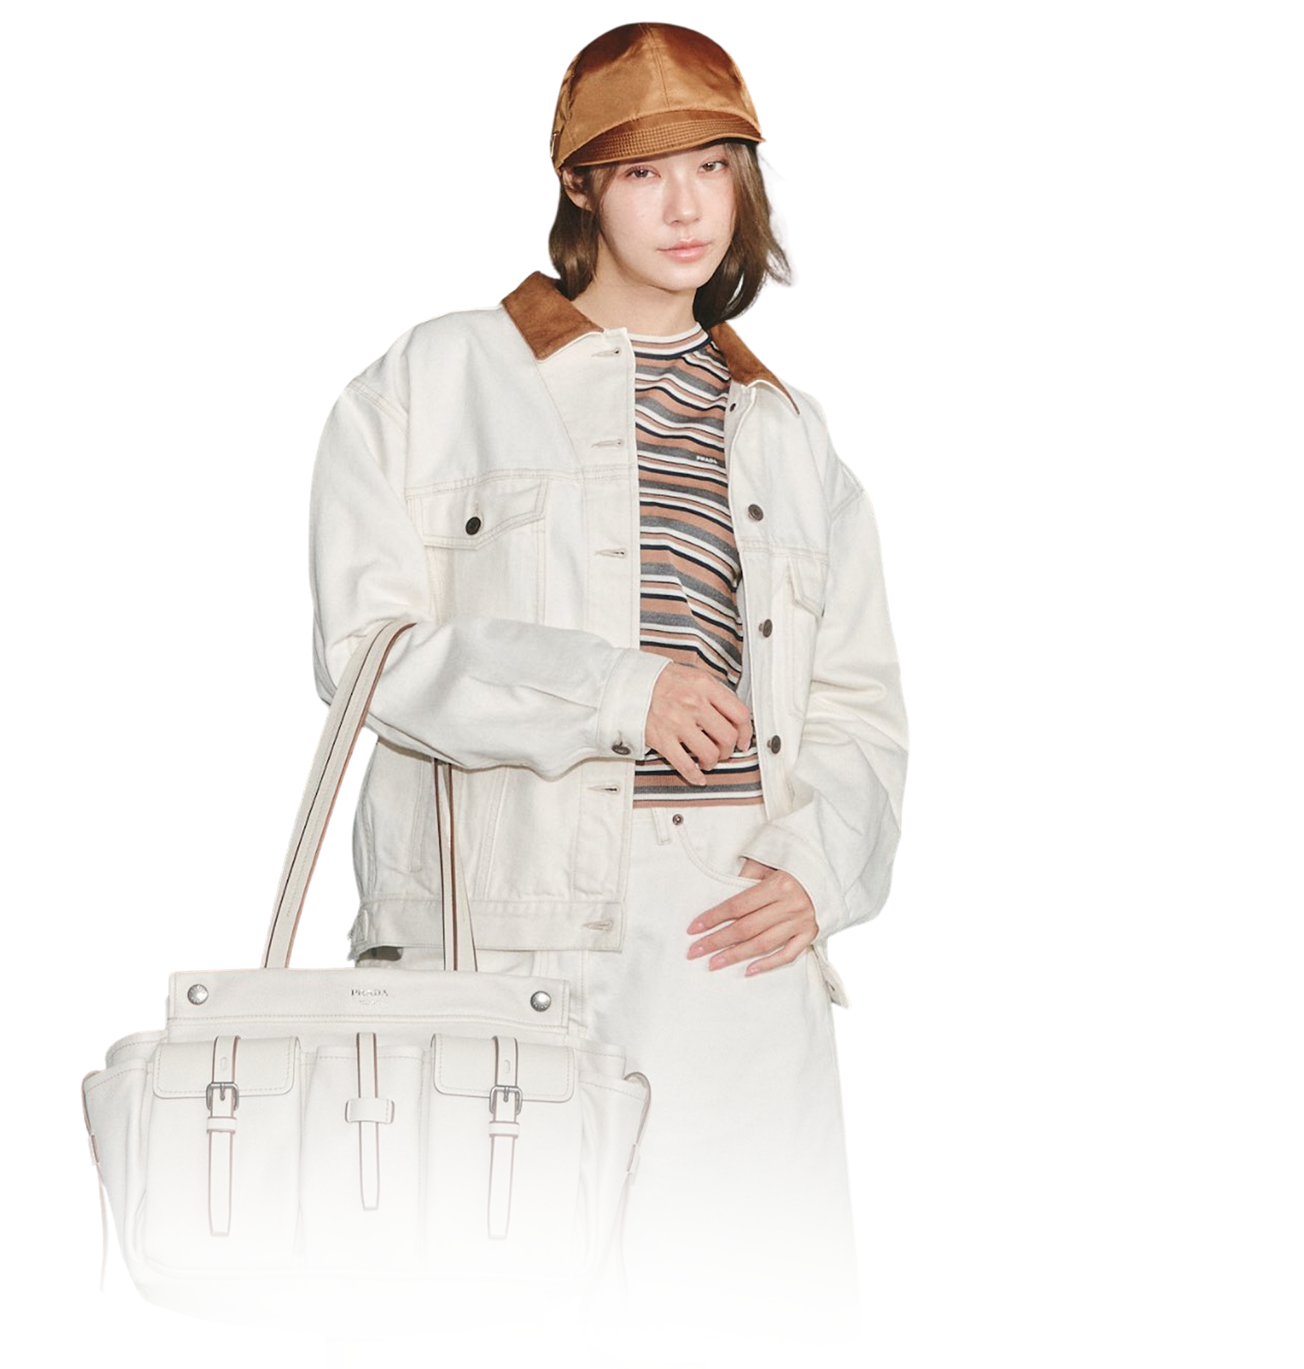
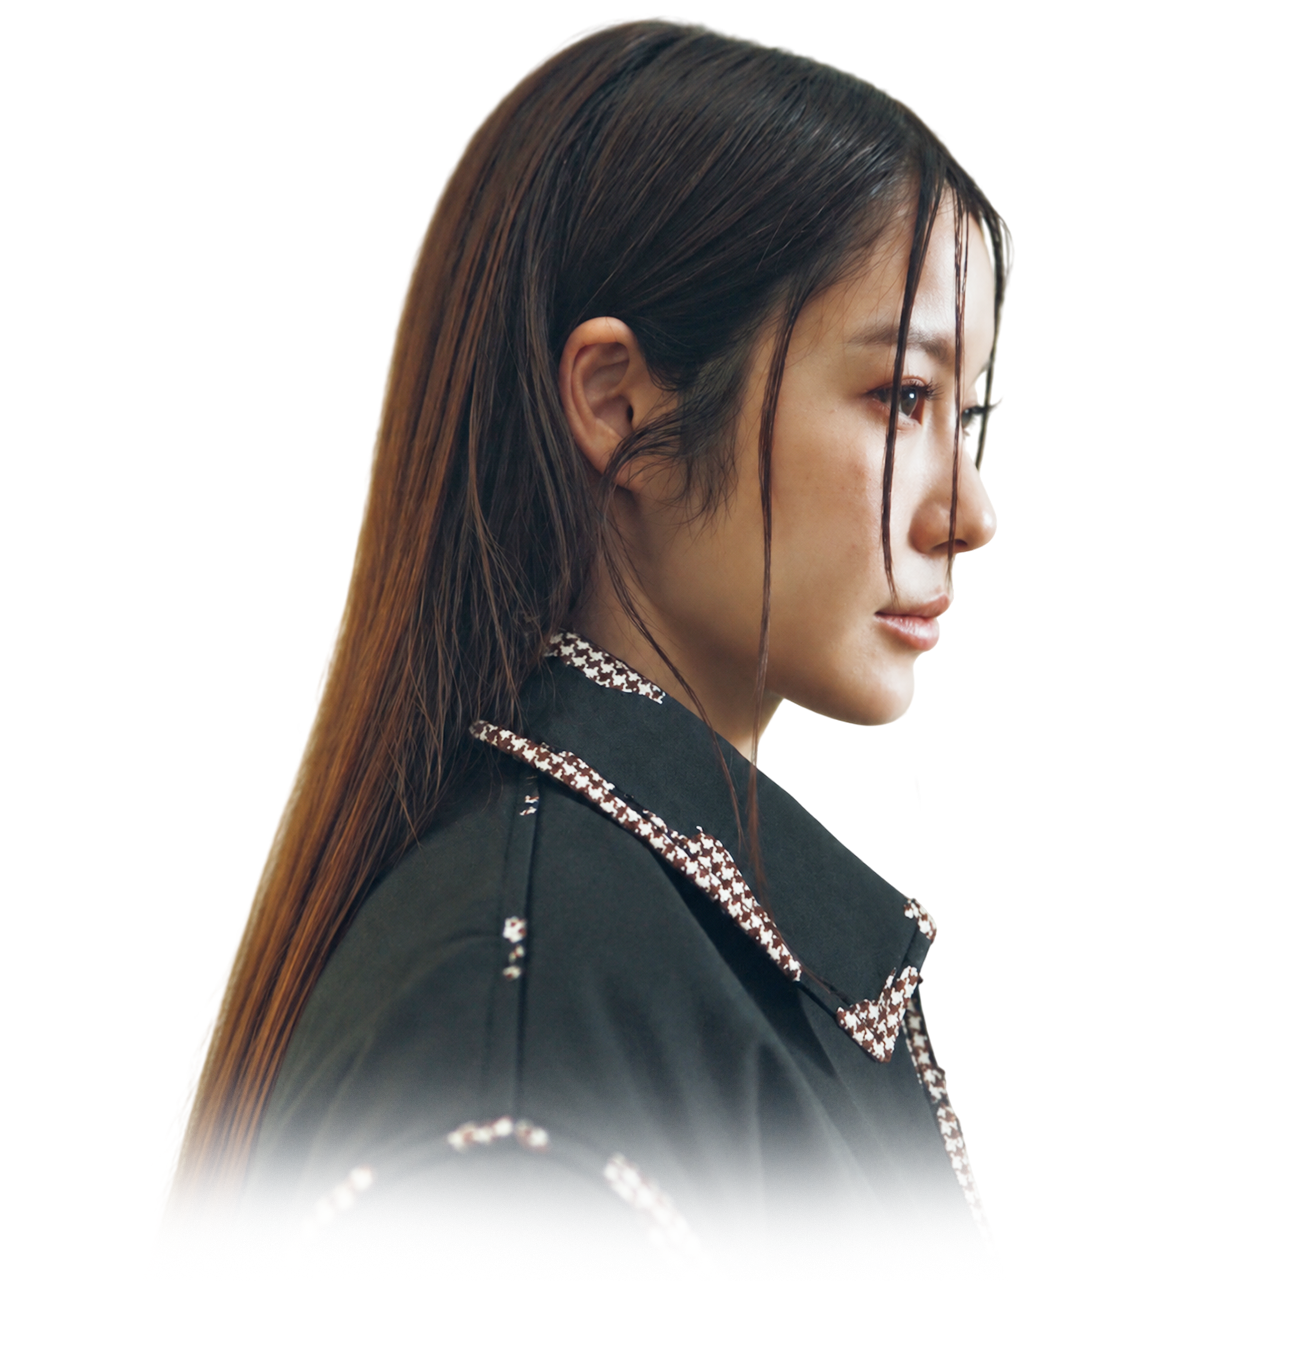
style: update color palette (#e6e7e9 background, #121c21 text, #47191e red buttons, #102022 green bars/buttons)

diff --git a/src/App.tsx b/src/App.tsx
@@ -1125,12 +1125,12 @@ function App() {
           {/* Hero Editorial Banner Layout (Top Banner - Normal Scroll) */}
           <div className="relative w-full overflow-hidden bg-transparent mb-1 p-4 sm:p-6 flex flex-col items-center justify-center min-h-[200px] sm:min-h-[240px]">
             {/* Language Switcher (Top Right Absolute) */}
-            <div className="absolute top-2 right-2 z-20 flex rounded-full overflow-hidden border border-[#c4d2b1] bg-white/60 backdrop-blur-md shadow-sm">
+            <div className="absolute top-2 right-2 z-20 flex rounded-full overflow-hidden border border-[#102022] bg-white/60 backdrop-blur-md shadow-sm">
               <button
                 onClick={() => setLanguage('th')}
                 className={`px-2.5 py-1 text-[10px] font-bold transition-all ${language === 'th'
-                  ? 'bg-[#c4d2b1] text-[#2a2121]'
-                  : 'text-[#2a2121]/70 hover:text-[#2a2121]'
+                  ? 'bg-[#102022] text-white'
+                  : 'text-[#121c21]/70 hover:text-[#121c21]'
                   }`}
               >
                 TH
@@ -1138,8 +1138,8 @@ function App() {
               <button
                 onClick={() => setLanguage('en')}
                 className={`px-2.5 py-1 text-[10px] font-bold transition-all ${language === 'en'
-                  ? 'bg-[#c4d2b1] text-[#2a2121]'
-                  : 'text-[#2a2121]/70 hover:text-[#2a2121]'
+                  ? 'bg-[#102022] text-white'
+                  : 'text-[#121c21]/70 hover:text-[#121c21]'
                   }`}
               >
                 EN
@@ -1158,14 +1158,14 @@ function App() {
             {/* Typography Title & Subtitle - Archivo Black Uniform Style */}
             <div className="relative z-10 text-center flex flex-col items-center">
               <h1 className="flex items-center justify-center gap-2 sm:gap-3 flex-wrap drop-shadow-sm font-archivo text-2xl sm:text-4xl leading-none uppercase tracking-tight">
-                <span className="text-[#2f2625]">
+                <span className="text-[#121c21]">
                   PRADA ×
                 </span>
-                <span className="text-[#c4d2b1]">
+                <span className="text-[#47191e]">
                   namtan
                 </span>
               </h1>
-              <p className="text-[11px] sm:text-[14px] font-light tracking-wider text-[#2f2625] mt-2 font-google">
+              <p className="text-[11px] sm:text-[14px] font-light tracking-wider text-[#121c21] mt-2 font-google">
                 Womenswear Spring/Summer 2027
               </p>
               {/* Brand Logo */}
@@ -1198,13 +1198,13 @@ function App() {
                         setVisibleCount(30);
                       }}
                       className={`flex flex-col items-center justify-center py-2 px-0.5 rounded-xl border transition-all ${isActive
-                        ? 'bg-[#c4d2b1] text-[#2a2121] border-[#c4d2b1] shadow-md scale-105 z-10 font-bold'
-                        : 'bg-white/80 text-[#2a2121] border-[#c4d2b1]/60 hover:bg-[#c4d2b1]/20'
+                        ? 'bg-[#102022] text-white border-[#102022] shadow-md scale-105 z-10 font-bold'
+                        : 'bg-white/80 text-[#121c21] border-[#102022]/40 hover:bg-[#102022]/10'
                         }`}
                     >
                       <div className="text-[12px] sm:text-[14px] leading-none mb-1">{phase.icon}</div>
                       <div className="text-[9px] sm:text-[10px] font-bold leading-none mb-0.5 whitespace-nowrap">{phase.label}</div>
-                      <div className={`text-[7px] sm:text-[8px] tracking-tight whitespace-nowrap overflow-hidden text-ellipsis w-full px-0.5 text-center ${isActive ? 'text-[#2a2121]/90 font-semibold' : 'text-[#2a2121]/70'}`}>{phase.desc}</div>
+                      <div className={`text-[7px] sm:text-[8px] tracking-tight whitespace-nowrap overflow-hidden text-ellipsis w-full px-0.5 text-center ${isActive ? 'text-white/90 font-semibold' : 'text-[#121c21]/70'}`}>{phase.desc}</div>
                     </button>
                   )
                 })}
@@ -1225,8 +1225,8 @@ function App() {
                       }
                     }}
                     className={`px-3 sm:px-4 h-8 rounded-full flex items-center gap-1.5 shadow-lg shadow-black/5 transition-all hover:scale-105 active:scale-95 group relative z-50 flex-shrink-0 border ${activeSection === 'tasks'
-                      ? 'bg-[#c4d2b1] text-[#2a2121] border-transparent shadow-[#c4d2b1]/20'
-                      : 'bg-white/90 backdrop-blur-md text-[#2a2121] border-[#c4d2b1] shadow-sm hover:bg-white shadow-[#c4d2b1]/10'
+                      ? 'bg-[#47191e] text-white border-transparent shadow-[#47191e]/20'
+                      : 'bg-white/90 backdrop-blur-md text-[#121c21] border-[#102022]/40 shadow-sm hover:bg-white'
                       }`}
                   >
                     <span className={`text-[10px] ${activeSection === 'tasks' ? 'animate-pulse' : ''} transition-transform`}>
@@ -1243,8 +1243,8 @@ function App() {
                       }
                     }}
                     className={`px-3 sm:px-4 h-8 rounded-full flex items-center gap-1.5 shadow-lg shadow-black/5 transition-all hover:scale-105 active:scale-95 group relative z-50 flex-shrink-0 border ${activeSection === 'boost'
-                      ? 'bg-[#c4d2b1] text-[#2a2121] border-transparent shadow-[#c4d2b1]/20'
-                      : 'bg-white/90 backdrop-blur-md text-[#2a2121] border-[#c4d2b1] shadow-sm hover:bg-white shadow-[#c4d2b1]/10'
+                      ? 'bg-[#47191e] text-white border-transparent shadow-[#47191e]/20'
+                      : 'bg-white/90 backdrop-blur-md text-[#121c21] border-[#102022]/40 shadow-sm hover:bg-white'
                       }`}
                   >
                     <span className={`text-[10px] ${activeSection === 'boost' ? 'animate-pulse' : ''} transition-transform`}>
@@ -1261,8 +1261,8 @@ function App() {
                       }
                     }}
                     className={`px-3 sm:px-4 h-8 rounded-full flex items-center gap-1.5 shadow-lg shadow-black/5 transition-all hover:scale-105 active:scale-95 group relative z-50 flex-shrink-0 border ${activeSection === 'important'
-                      ? 'bg-[#c4d2b1] text-[#2a2121] border-transparent shadow-[#c4d2b1]/20'
-                      : 'bg-white/90 backdrop-blur-md text-[#2a2121] border-[#c4d2b1] shadow-sm hover:bg-white shadow-[#c4d2b1]/10'
+                      ? 'bg-[#47191e] text-white border-transparent shadow-[#47191e]/20'
+                      : 'bg-white/90 backdrop-blur-md text-[#121c21] border-[#102022]/40 shadow-sm hover:bg-white'
                       }`}
                   >
                     <span className={`text-[10px] ${activeSection === 'important' ? 'animate-pulse' : ''} transition-transform`}>
@@ -1369,11 +1369,11 @@ function App() {
                       return (
                         <>
                           {/* Summary Bar */}
-                          <div className="flex items-center justify-between px-1 pb-1 border-b border-[#c4d2b1]/10 mb-1">
+                          <div className="flex items-center justify-between px-1 pb-1 border-b border-[#102022]/10 mb-1">
                             <span className="text-[10px] text-prada-taupe/60">
                               {t('missionCount')}
                             </span>
-                            <span className="text-[11px] font-bold text-[#c4d2b1]">
+                            <span className="text-[11px] font-bold text-[#47191e]">
                               {featuredPosts.length} {t('missionCountUnit')}
                             </span>
                           </div>
@@ -1390,7 +1390,7 @@ function App() {
                                 className="flex shrink-0 bg-white rounded-2xl overflow-hidden border border-prada-warm/20 shadow-sm hover:shadow-lg hover:border-prada-gold/40 transition-all active:scale-[0.98] group/post cursor-pointer"
                               >
                                 {/* Left: Thumbnail panel */}
-                                <div className="w-28 sm:w-36 shrink-0 flex flex-col items-center justify-center bg-gradient-to-br from-[#e4eccf] to-[#c4d2b1] relative overflow-hidden">
+                                <div className="w-28 sm:w-36 shrink-0 flex flex-col items-center justify-center bg-gradient-to-br from-[#e6e7e9] to-[#d0d3d8] relative overflow-hidden">
                                   {post.image ? (
                                     <img
                                       src={post.image}
@@ -1431,7 +1431,7 @@ function App() {
                                 <div className="flex-1 min-w-0 p-3 sm:p-4 flex flex-col gap-2">
                                   {/* Post Header */}
                                   <div className="flex items-center gap-2">
-                                    <div className="w-7 h-7 rounded-full shrink-0 flex items-center justify-center overflow-hidden bg-white border border-[#c4d2b1] text-[#2a2121] shadow-sm">
+                                    <div className="w-7 h-7 rounded-full shrink-0 flex items-center justify-center overflow-hidden bg-white border border-[#102022]/30 text-[#121c21] shadow-sm">
                                       <div className="w-3.5 h-3.5 flex items-center justify-center [&>svg]:w-full [&>svg]:h-full">{iconPlatform?.icon}</div>
                                     </div>
                                     <div className="flex flex-col min-w-0">
@@ -1485,7 +1485,7 @@ function App() {
                                   <div className="pt-1.5 border-t border-prada-warm/30 flex items-center justify-between">
                                     <span className="text-[9px] font-bold text-prada-charcoal/50 uppercase tracking-wider">{t('totalEngagementLabel')}</span>
                                     <div className="flex items-baseline gap-1">
-                                      <span className="text-sm font-bold text-[#c4d2b1] tabular-nums">{totalEngagement.toLocaleString()}</span>
+                                      <span className="text-sm font-bold text-[#47191e] tabular-nums">{totalEngagement.toLocaleString()}</span>
                                       {(post.target ?? 0) > 0 && (
                                         <span className={`text-[9px] font-bold ${pct >= 100 ? 'text-emerald-500' : 'text-prada-taupe/50'}`}>
                                           ({pct.toFixed(1)}%)
@@ -1522,21 +1522,21 @@ function App() {
                     {/* Title Row */}
                     <div className="flex items-center justify-between w-full">
                       <div className="flex items-center gap-1 sm:gap-1.5">
-                        <span className="text-[#c4d2b1] text-sm sm:text-base leading-none">✦</span>
-                        <h3 className="text-[10px] sm:text-xs font-bold text-[#c4d2b1] uppercase tracking-[0.15em] whitespace-nowrap">{t('importantMediaTitle') || 'Important Media'}</h3>
+                        <span className="text-[#47191e] text-sm sm:text-base leading-none">✦</span>
+                        <h3 className="text-[10px] sm:text-xs font-bold text-[#47191e] uppercase tracking-[0.15em] whitespace-nowrap">{t('importantMediaTitle') || 'Important Media'}</h3>
                       </div>
                       {/* Minimize button — always visible top-right */}
                       <div className="flex flex-col items-center shrink-0">
                         <button
                           onClick={() => setActiveSection(null)}
-                          className="w-7 h-7 rounded-full bg-[#c4d2b1]/10 text-[#c4d2b1] border border-[#c4d2b1]/20 shadow-sm hover:bg-[#c4d2b1]/20 active:scale-95 flex items-center justify-center transition-colors"
+                          className="w-7 h-7 rounded-full bg-[#47191e]/10 text-[#47191e] border border-[#47191e]/20 shadow-sm hover:bg-[#47191e]/20 active:scale-95 flex items-center justify-center transition-colors"
                           title={t('minimize')}
                         >
                           <svg viewBox="0 0 24 24" fill="none" stroke="currentColor" strokeWidth="2.5" className="w-4 h-4">
                             <path strokeLinecap="round" strokeLinejoin="round" d="M19.5 8.25l-7.5 7.5-7.5-7.5" />
                           </svg>
                         </button>
-                        <span className="text-[6px] font-bold text-[#c4d2b1]/60 tracking-wider mt-0.5 whitespace-nowrap">
+                        <span className="text-[6px] font-bold text-[#47191e]/60 tracking-wider mt-0.5 whitespace-nowrap">
                           {t('tapToHide')}
                         </span>
                       </div>
@@ -1547,8 +1547,8 @@ function App() {
                       <button
                         onClick={() => setFeaturedFilterPlatform(null)}
                         className={`px-3 h-7 rounded-full flex-shrink-0 text-[10px] font-bold border transition-colors flex items-center justify-center shadow-sm ${!featuredFilterPlatform
-                          ? 'bg-[#c4d2b1] border-transparent text-[#2a2121]'
-                          : 'bg-white border-[#c4d2b1] text-[#2a2121]/70 hover:bg-[#c4d2b1]/10'
+                          ? 'bg-[#47191e] border-transparent text-white'
+                          : 'bg-white border-[#102022]/30 text-[#121c21]/70 hover:bg-[#47191e]/10'
                           }`}
                       >
                         {t('allLabel') || 'All'}
@@ -1560,8 +1560,8 @@ function App() {
                             key={p}
                             onClick={() => setFeaturedFilterPlatform(isActive ? null : p)}
                             className={`w-7 h-7 rounded-full flex-shrink-0 border transition-colors flex items-center justify-center shadow-sm ${isActive
-                              ? 'bg-[#c4d2b1] border-[#c4d2b1] text-[#2a2121]'
-                              : 'bg-white border-[#c4d2b1] text-[#2a2121]/80 hover:border-[#c4d2b1] hover:text-[#2a2121]'
+                              ? 'bg-[#47191e] border-[#47191e] text-white'
+                              : 'bg-white border-[#102022]/30 text-[#121c21]/80 hover:border-[#47191e] hover:text-[#121c21]'
                               }`}
                           >
                             <div className="w-4 h-4 text-current flex items-center justify-center">

diff --git a/src/index.css b/src/index.css
@@ -12,23 +12,23 @@
   font-family: 'Ephesis', cursive;
 }
 
-/* ===== Theme: Namtan × Prada SS 2027 (#c4d2b1 & #2a2121) ===== */
+/* ===== Theme Palette: #e6e7e9 (BG), #121c21 (Text), #47191e (Red Buttons), #102022 (Green Bars/Buttons) ===== */
 :root {
-  --prada-offwhite: 247 249 245;   /* Soft sage ivory tint */
-  --prada-cream: 228 236 218;      /* Soft sage cream */
-  --prada-sage: 196 210 177;       /* #c4d2b1 Sage Green */
-  --prada-parchment: 196 210 177;  /* #c4d2b1 */
-  --prada-stone: 165 180 145;      /* Muted sage stone */
-  --prada-warm: 196 210 177;       /* Sage border accent */
-  --prada-taupe: 105 92 88;        /* Muted taupe text */
-  --prada-charcoal: 42 33 33;      /* #2a2121 Dark Espresso */
-  --prada-black: 25 18 18;         /* Luxury espresso black */
-  --prada-gold: 196 210 177;       /* #c4d2b1 Prada Sage Accent */
-  --prada-darkgold: 165 180 145;    /* Deep sage accent */
+  --prada-offwhite: 230 231 233;   /* #e6e7e9 ครีม พื้นหลัง */
+  --prada-cream: 220 222 225;      /* Soft gray tint */
+  --prada-sage: 16 32 34;          /* #102022 เขียว ปุ่ม/แถบ */
+  --prada-parchment: 71 25 30;     /* #47191e แดง ปุ่ม */
+  --prada-stone: 16 32 34;         /* #102022 */
+  --prada-warm: 71 25 30;          /* #47191e Accent border */
+  --prada-taupe: 70 80 85;         /* Muted text */
+  --prada-charcoal: 18 28 33;      /* #121c21 ดำ ตัวหนังสือ */
+  --prada-black: 18 28 33;         /* #121c21 */
+  --prada-gold: 71 25 30;          /* #47191e แดง ปุ่ม */
+  --prada-darkgold: 16 32 34;      /* #102022 เขียว ปุ่ม/แถบ */
 
   /* Luxury Accents */
-  --prada-red-light: 238 243 232;  /* Light sage tint */
-  --prada-red: 196 210 177;        /* Sage accent */
+  --prada-red-light: 245 235 236;  /* Light red tint */
+  --prada-red: 71 25 30;           /* #47191e แดง */
 }
 
 /* Performance & smooth rendering optimizations */
@@ -43,7 +43,8 @@ html {
 body {
   min-height: 100vh;
   min-height: 100dvh;
-  background-color: rgb(var(--prada-offwhite));
+  background-color: #e6e7e9;
+  color: #121c21;
   overflow-x: hidden;
 }
 
@@ -82,11 +83,11 @@ body {
 
 /* Prada Gold Accent Badge Utility */
 .prada-gold-accent {
-  background-color: #c4d2b1;
-  color: #2a2121;
+  background-color: #47191e;
+  color: #ffffff;
   font-weight: 700;
   letter-spacing: 0.12em;
-  box-shadow: 0 2px 8px rgba(196, 210, 177, 0.35);
+  box-shadow: 0 2px 8px rgba(71, 25, 30, 0.35);
 }
 
 /* Luxury Subtle Border */

diff --git a/src/pages/AdminHub.tsx b/src/pages/AdminHub.tsx
@@ -103,13 +103,13 @@ export default function AdminHub({ initialTab = 'data', onLogout }: AdminHubProp
   };
 
   return (
-    <div className="min-h-screen bg-[#F7F8F4] flex flex-col font-sans">
+    <div className="min-h-screen bg-[#e6e7e9] flex flex-col font-sans">
       {/* ── Sub Navigation Header for Admin ── */}
-      <div className="bg-[#2a2121] text-white border-b border-[#c4d2b1]/30 px-3 sm:px-4 py-2 sticky top-0 z-40 shadow-sm">
+      <div className="bg-[#102022] text-white border-b border-[#102022] px-3 sm:px-4 py-2 sticky top-0 z-40 shadow-sm">
         <div className="max-w-6xl mx-auto flex items-center justify-between gap-2">
           {/* Left: Tab switch */}
           <div className="flex items-center gap-1 sm:gap-2 shrink-0">
-            <span className="text-[11px] font-bold text-[#c4d2b1] uppercase tracking-widest mr-1 hidden lg:inline">
+            <span className="text-[11px] font-bold text-white uppercase tracking-widest mr-1 hidden lg:inline">
               Admin Hub:
             </span>
 
@@ -117,7 +117,7 @@ export default function AdminHub({ initialTab = 'data', onLogout }: AdminHubProp
               onClick={() => handleTabChange('data')}
               className={`flex items-center gap-1.5 sm:gap-2 px-2.5 sm:px-3 py-1.5 rounded-lg text-xs font-bold transition-all ${
                 activeTab === 'data'
-                  ? 'bg-[#c4d2b1] text-[#2a2121] shadow-sm'
+                  ? 'bg-[#47191e] text-white shadow-sm'
                   : 'text-gray-300 hover:text-white hover:bg-white/10'
               }`}
             >
@@ -130,7 +130,7 @@ export default function AdminHub({ initialTab = 'data', onLogout }: AdminHubProp
               onClick={() => handleTabChange('calc')}
               className={`flex items-center gap-1.5 sm:gap-2 px-2.5 sm:px-3 py-1.5 rounded-lg text-xs font-bold transition-all ${
                 activeTab === 'calc'
-                  ? 'bg-[#c4d2b1] text-[#2a2121] shadow-sm'
+                  ? 'bg-[#47191e] text-white shadow-sm'
                   : 'text-gray-300 hover:text-white hover:bg-white/10'
               }`}
             >

diff --git a/src/pages/AdminDataManagement.tsx b/src/pages/AdminDataManagement.tsx
@@ -1389,9 +1389,9 @@ export default function AdminDataManagement({ onBackToApp }: AdminDataManagement
   };
 
   return (
-    <div className="min-h-screen bg-[#F7F8F4] font-sans pb-16">
+    <div className="min-h-screen bg-[#e6e7e9] font-sans pb-16">
       {/* ── Top Header ── */}
-      <header className="bg-[#2a2121] text-white sticky top-0 z-30 shadow-md border-b border-[#c4d2b1]">
+      <header className="bg-[#102022] text-white sticky top-0 z-30 shadow-md border-b border-[#102022]">
         <div className="max-w-6xl mx-auto px-4 py-3 flex items-center justify-between">
           <div className="flex items-center gap-2.5">
             <div>
@@ -1410,7 +1410,7 @@ export default function AdminDataManagement({ onBackToApp }: AdminDataManagement
                 resetForm();
                 setShowAddModal(true);
               }}
-              className="px-4 py-2 rounded-xl bg-[#c4d2b1] hover:bg-[#B40F28] text-white text-xs sm:text-sm font-bold flex items-center gap-2 shadow-lg shadow-[#c4d2b1]/25 transition-all active:scale-95 hover:scale-[1.02]"
+              className="px-4 py-2 rounded-xl bg-[#47191e] hover:bg-[#331215] text-white text-xs sm:text-sm font-bold flex items-center gap-2 shadow-lg transition-all active:scale-95 hover:scale-[1.02]"
             >
               <FaPlus className="text-xs sm:text-sm" />
               <span>เพิ่มโพสต์</span>
